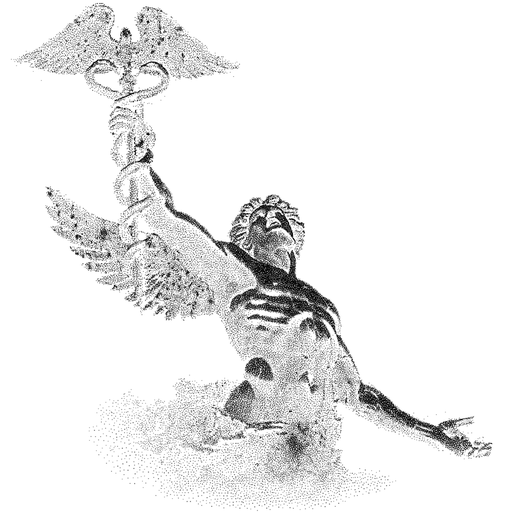
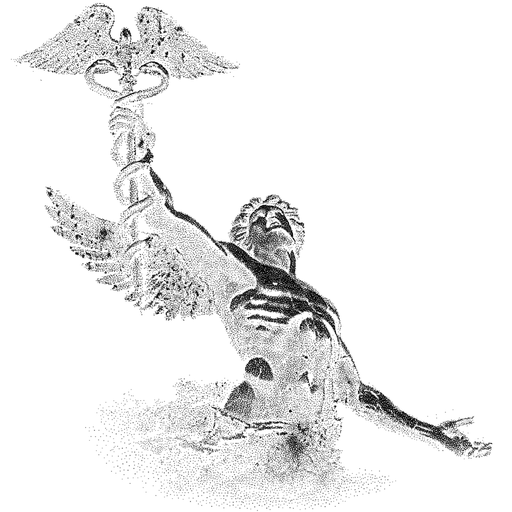
Sharpen the whole figure and draw its hollows, from a normal map that keeps the grooves the depth smooths away
Only the face and the hands were sharpened; now an unsharp mask (1.5 px, 0.7) runs over the whole figure, so the
feathers, the snakes, the curls, the fingers, and the muscles stand off the stone too. And the maps draw the
figure's hollows (hollows() in build.py): darker in the ink map, sparser in the light map, so the grooves between
the abdominal muscles, under the pectorals, between the fingers, the snakes against the staff, and the feathers
against the wing read as concavities in both modes.

A hollow comes from two estimates, each normalised inside the statue and compressed so a crease reads without a
deep occlusion swamping it: the depth's own (how far the depth around a point, smoothed inside the figure only so
the sky never pulls it in, lies in front of it), which sees steps between forms; and the convergence of surface
normals from Marigold normals v1.1 (CreativeML Open RAIL++-M, five predictions at its working resolution, 768 px),
which sees the gentle grooves the depth smooths away. The normals are a generative model's reading: checked against
the JPEG they follow the torso, the wings, and the clouds well but blur the fingers of the open hand and misread the
upturned face, and at 1024 px they invent a six-pack in the shadowed lower abdomen. So a hollow they see counts only
where the avatar is locally darker too; an overlay of the hollows on the avatar shows none the image does not.
[…]

diff --git a/index.html b/index.html
@@ -76,7 +76,7 @@
           <li><a href="/work/?theme=physics-software" data-theme-link="physics-software"><span class="t-label muted">03</span><span class="t-small">Physics software</span><span class="t-label muted num">01</span></a></li>
         </ol>
       </nav>
-      <div class="fig-note"><p class="t-label muted">Fig. 0&nbsp;· Interactive sculpture</p><p class="t-small">My GitHub avatar as <span data-dot-count>93,201</span> dots in five materials, lifted into 3D with a monocular depth map. <span class="fine">Move the cursor to push them; click to send a ripple.</span><span class="coarse">Tap for a ripple; drag sideways to turn.</span></p><p class="fig-telemetry t-label muted num" data-hero-telemetry aria-hidden="true" hidden></p><button class="figure-ripple link-ui" type="button" data-hero-ripple hidden>Send a ripple <span aria-hidden="true">↻</span></button></div>
+      <div class="fig-note"><p class="t-label muted">Fig. 0&nbsp;· Interactive sculpture</p><p class="t-small">My GitHub avatar as <span data-dot-count>96,889</span> dots in five materials, lifted into 3D with a monocular depth map. <span class="fine">Move the cursor to push them; click to send a ripple.</span><span class="coarse">Tap for a ripple; drag sideways to turn.</span></p><p class="fig-telemetry t-label muted num" data-hero-telemetry aria-hidden="true" hidden></p><button class="figure-ripple link-ui" type="button" data-hero-ripple hidden>Send a ripple <span aria-hidden="true">↻</span></button></div>
     </div>
   </section>
 

diff --git a/tools/hero/build.py b/tools/hero/build.py
@@ -18,11 +18,12 @@ Turns assets/avatar.jpg into the data the WebGL engine (js/hero.js) stipples at 
 The source is the 424 px GitHub avatar (tools/hero/avatar-424.jpg) upscaled 4x into assets/avatar.jpg: an
 even blend of Real-ESRGAN x4plus, which sharpens edges, and Real-ESRNet x4plus, its PSNR-trained sibling,
 which does not invent texture (both BSD-3-Clause). The depth map comes from Depth Anything V2 Base
-(CC BY-NC 4.0) run at 1036 px and is cached as 16-bit in tools/hero/depth.png. Rebuilding from the caches
-needs only numpy and Pillow; --upscale and --depth redo those steps (torch, spandrel, transformers).
---color stops after the material map (color.webp).
+(CC BY-NC 4.0) run at 1036 px and is cached as 16-bit in tools/hero/depth.png; the surface normals from Marigold
+normals v1.1 (CreativeML Open RAIL++-M) run at 768 px, cached in tools/hero/normals.png. Rebuilding from the
+caches needs only numpy and Pillow; --upscale, --depth, and --normals redo those steps (torch, spandrel,
+transformers, diffusers). --color stops after the material map (color.webp).
 
-    python3 tools/hero/build.py [--upscale] [--depth] [--color]
+    python3 tools/hero/build.py [--upscale] [--depth] [--normals] [--color]
 """
 import hashlib, json, os, sys, urllib.request
 import numpy as np
@@ -34,13 +35,11 @@ AVATAR = os.path.join(ROOT, 'assets', 'avatar.jpg')
 N = 896          # ink map: about one map pixel per stipple cell at the largest figure
 M = 448          # depth, detail, and color maps: smooth fields, half the resolution
 DEPTH_INPUT = 1036
+NORMALS_INPUT = 768
 INK_LEVELS = 64
 DENSITY = 0.85
-# The face and the hands, as soft ellipses (x, y, rx, ry, turn in radians; figure units, 0..1 across the map):
-# the ink is sharpened inside them so the eye socket, the open mouth, and the fingers stand off the stone.
-FINE = [(0.497, 0.455, 0.094, 0.09, 0.0),     # the head, its face upturned
-        (0.236, 0.284, 0.064, 0.072, 0.0),    # the fist on the caduceus
-        (0.852, 0.832, 0.108, 0.062, 0.2)]    # the open hand
+SHARPEN = 0.7                          # the unsharp mask over the whole figure
+CAVITY_INK, CAVITY_LIGHT = 0.35, 0.45  # how much a hollow darkens the ink, and takes from the light
 
 UPSCALERS = [  # (url, sha256)
     ('https://github.com/xinntao/Real-ESRGAN/releases/download/v0.1.0/RealESRGAN_x4plus.pth',
@@ -98,6 +97,52 @@ def depth_map():
     return np.asarray(Image.fromarray(d).resize((N, N), Image.BICUBIC))
 
 
+def normal_map():
+    """Surface normals at N px (x right, y down, z towards the viewer) from Marigold normals v1.1 (CreativeML Open
+    RAIL++-M), run on the upscale at the model's working resolution, 768 px, five predictions ensembled (at each pixel
+    the one nearest their mean), and cached as an ordinary 8-bit normal map in tools/hero/normals.png (x right, y up).
+    The depth map is smooth over the torso and the clouds; the normals keep the grooves between the muscles, the
+    curls, and the billows' turn."""
+    path = os.path.join(ROOT, 'tools', 'hero', 'normals.png')
+    if '--normals' in sys.argv or not os.path.exists(path):
+        import torch
+        from diffusers import MarigoldNormalsPipeline
+        pipe = MarigoldNormalsPipeline.from_pretrained('prs-eth/marigold-normals-v1-1')
+        out = pipe(Image.open(AVATAR).convert('RGB'), num_inference_steps=4, ensemble_size=5, processing_resolution=NORMALS_INPUT,
+                   match_input_resolution=False, output_type='np', generator=torch.Generator().manual_seed(7))
+        Image.fromarray(u8((out.prediction[0] + 1) / 2)).save(path, optimize=True)
+    n = np.asarray(Image.open(path).convert('RGB'), np.float32) / 255 * 2 - 1
+    nx, ny = (np.asarray(Image.fromarray(np.ascontiguousarray(c)).resize((N, N), Image.BICUBIC)) for c in (n[..., 0], -n[..., 1]))
+    return nx, ny, np.sqrt(np.clip(1 - nx ** 2 - ny ** 2, 0, 1))
+
+
+def hollows(dep, figure, normals, lum):
+    """Where the surface is concave, 0..1: the navel, the grooves between the muscles, under the pectorals, between the
+    fingers, the feathers, and the curls, the snakes against the staff. Two estimates, each normalised inside the
+    statue and compressed so a crease reads without a deep occlusion swamping it: the depth's own hollows (how far
+    the depth smoothed around a point, inside the figure only so the sky never pulls it in, lies in front of the
+    point), which see steps between forms (a finger before the palm, a snake before the staff); and the normals'
+    convergence (minus their divergence), which sees the gentle grooves the depth smooths away. The normals come from
+    a generative model, which reads an upturned face or a hand in shadow less well than the avatar shows them, so a
+    hollow they see counts only where the avatar is locally darker too: the model never adds a groove the image does
+    not show."""
+    inside = (figure > 0.5).astype(np.float32)
+    within = lambda a, r: blurf(a * inside, r) / np.maximum(blurf(inside, r), 1e-3)
+    core = blurf(inside, 3.0) > 0.98
+    near = within(dep, 0.8)
+    steps = (within(dep, 2.0) - near) + 0.5 * (within(dep, 5.0) - near)
+    nx, ny, _ = normals
+    bend = -(np.gradient(blurf(nx, 1.2), axis=1) + np.gradient(blurf(ny, 1.2), axis=0))
+    darker = smoothstep(0.0, 0.05, blurf(lum, 3.0) - blurf(lum, 0.8))
+    squash = lambda a: 1 - np.exp(-np.clip(a, 0, None) / np.percentile(a[core], 93))
+    return np.maximum(squash(steps), squash(bend) * darker) * inside
+
+
+def sharpen(a, mask):
+    """An unsharp mask (1.5 px) over the whole figure."""
+    return np.clip(a + SHARPEN * (a - blurf(a, 1.5)), 0, 1) * (mask > 0.02)
+
+
 def blurf(a, r):
     # float-precision blur via separable gaussian
     k = np.arange(-int(3 * r) - 1, int(3 * r) + 2)
@@ -120,17 +165,6 @@ def half(a):
 
 def u8(a):
     return np.clip(np.round(a * 255), 0, 255).astype(np.uint8)
-
-
-def fine_weight(xx, yy):
-    """1 inside a fine zone, falling to 0 over the outer 30% of its radius."""
-    w = np.zeros_like(xx)
-    for cx, cy, rx, ry, turn in FINE:
-        dx, dy = xx - cx, yy - cy
-        u = (dx * np.cos(turn) + dy * np.sin(turn)) / rx
-        v = (dy * np.cos(turn) - dx * np.sin(turn)) / ry
-        w = np.maximum(w, 1 - smoothstep(0.7, 1.0, np.hypot(u, v)))
-    return w
 
 
 def maps():
@@ -160,7 +194,8 @@ def maps():
     # Shade it like an engraving. The image's own light carries the features (eye sockets, nostrils, the open
     # mouth are its local darks), so its tone and local shadows lead; the depth surface, lit from the upper left,
     # adds the turn of the form; contours come from the silhouette and from steps in depth (fingers against the
-    # palm, snakes against the staff); a floor keeps lit stone drawn instead of blank.
+    # palm, snakes against the staff); the hollows (hollows()) are darker; a floor keeps lit stone drawn instead of
+    # blank.
     d = blurf(dep, 2.5) * 140.0
     gy, gx = np.gradient(d)
     nz = 1 / np.sqrt(gx ** 2 + gy ** 2 + 1)
@@ -172,7 +207,9 @@ def maps():
     rim = np.clip(np.hypot(*np.gradient(blurf(mask, 2.8))) * 18, 0, 1)
     step = np.hypot(*np.gradient(blurf(dep, 1.2)))
     step = np.clip(step / np.percentile(step[mask > 0.5], 97), 0, 1)
-    ink = 0.14 + 0.20 * (1 - lambert) + 0.55 * tone + np.clip(-shadow * 7.0, -0.3, 0.55) + 0.30 * rim + 0.40 * step
+    cavity = hollows(dep, figure, normal_map(), lum)
+    ink = 0.14 + 0.20 * (1 - lambert) + 0.55 * tone + np.clip(-shadow * 7.0, -0.3, 0.55) + 0.30 * rim + 0.40 * step \
+        + CAVITY_INK * cavity
     # a contrast curve around 0.62: lit stone lighter, deep shadow darker, so features stand off the skin
     ink = np.clip((np.clip(ink, 0, 1) / 0.62) ** 1.35 * 0.62, 0, 1)
 
@@ -182,11 +219,9 @@ def maps():
     contrast = np.abs(lum - blurf(lum, 3.0))
     contrast = np.clip(contrast / np.percentile(contrast[mask > 0.5], 98), 0, 1)
     ink = ink * np.minimum(1.6, 1 + 0.6 * contrast) * mask / 1.6
-    # Inside the face and the hands the ink is sharper: an unsharp mask (1.5 px, 0.8) on the features, faded in over
-    # the rim of each zone.
-    zone = fine_weight(xx, yy)
-    sharp = np.clip(ink + 0.8 * (ink - blurf(ink, 1.5)), 0, 1) * (mask > 0.02)
-    ink = ink * (1 - zone) + sharp * zone
+    # The whole figure is sharpened (an unsharp mask on the features), so the eye socket, the open mouth, the fingers,
+    # the curls, the feathers, and the snakes stand off the stone.
+    ink = sharpen(ink, mask)
     detail = blurf(contrast, 3.0)
     detail = np.clip(detail / np.percentile(detail[mask > 0.5], 98), 0, 1)
 
@@ -196,15 +231,14 @@ def maps():
     # sparse, highlights and its bright rims kept); the depth surface lit from the upper left adds the turn of the
     # form; the image's local contrast, signed, keeps the features (the eye socket, the nostrils, the open mouth, the
     # grooves between the muscles) as darker gaps between lit forms; steps in depth open thin gaps between forms
-    # (fingers against the palm); a soft shoulder keeps broad lit stone stippled instead of filling in; and where the
-    # statue meets the sky its edge falls away into the dark instead of glowing.
+    # (fingers against the palm) and the hollows take light away; a soft shoulder keeps broad lit stone stippled instead
+    # of filling in; and where the statue meets the sky its edge falls away into the dark instead of glowing.
     tone_l = blurf(lum, 0.6)
     light = 0.08 + 0.92 * tone_l ** 1.1 + 0.10 * (lambert - 0.5) + 2.6 * (tone_l - blurf(tone_l, 2.0)) \
         + 0.8 * (tone_l - blurf(tone_l, 6.0)) - 0.2 * step
-    light = 1.15 * (1 - np.exp(-np.clip(light, 0, None) / 1.15))
+    light = 1.15 * (1 - np.exp(-np.clip(light, 0, None) / 1.15)) * (1 - CAVITY_LIGHT * cavity)
     light = light * mask * (0.5 + 0.5 * smoothstep(0.5, 1.0, blurf((figure > 0.5).astype(np.float32), 1.5)))
-    sharp = np.clip(light + 0.8 * (light - blurf(light, 1.5)), 0, 1) * (mask > 0.02)
-    light = light * (1 - zone) + sharp * zone
+    light = sharpen(light, mask)
     return dep, ink, light, mask, detail
 
 
